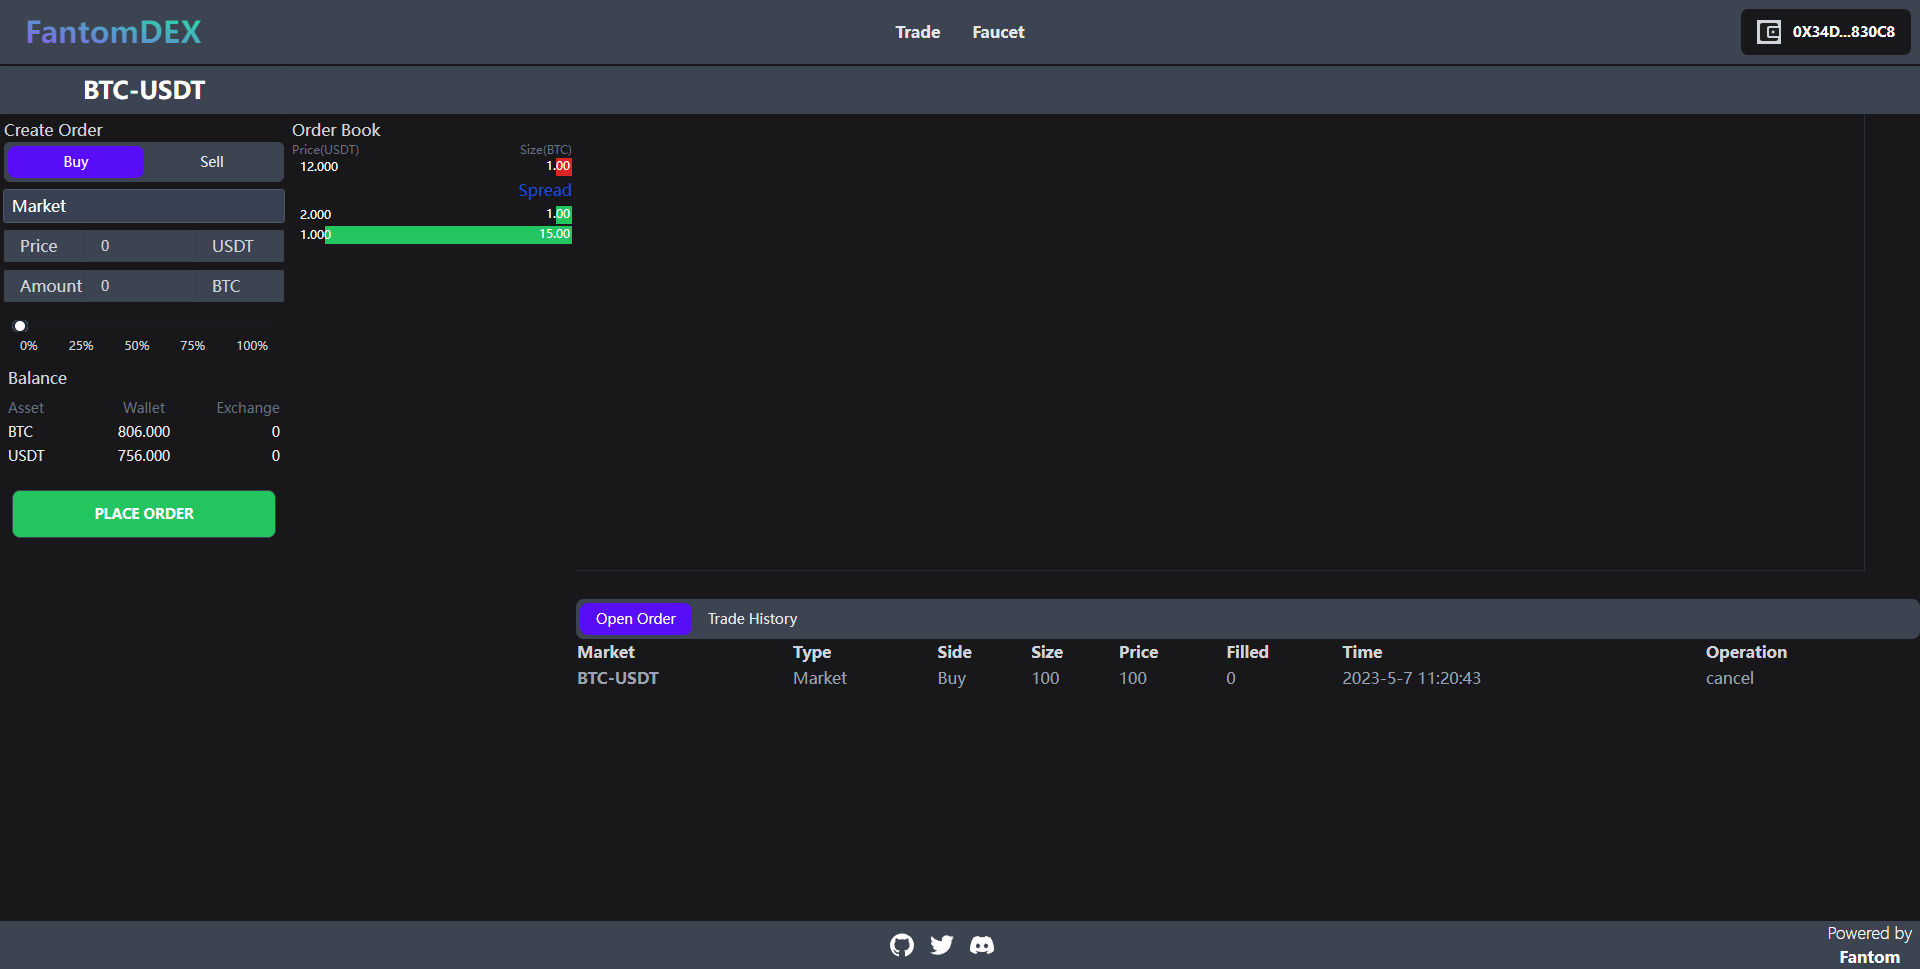
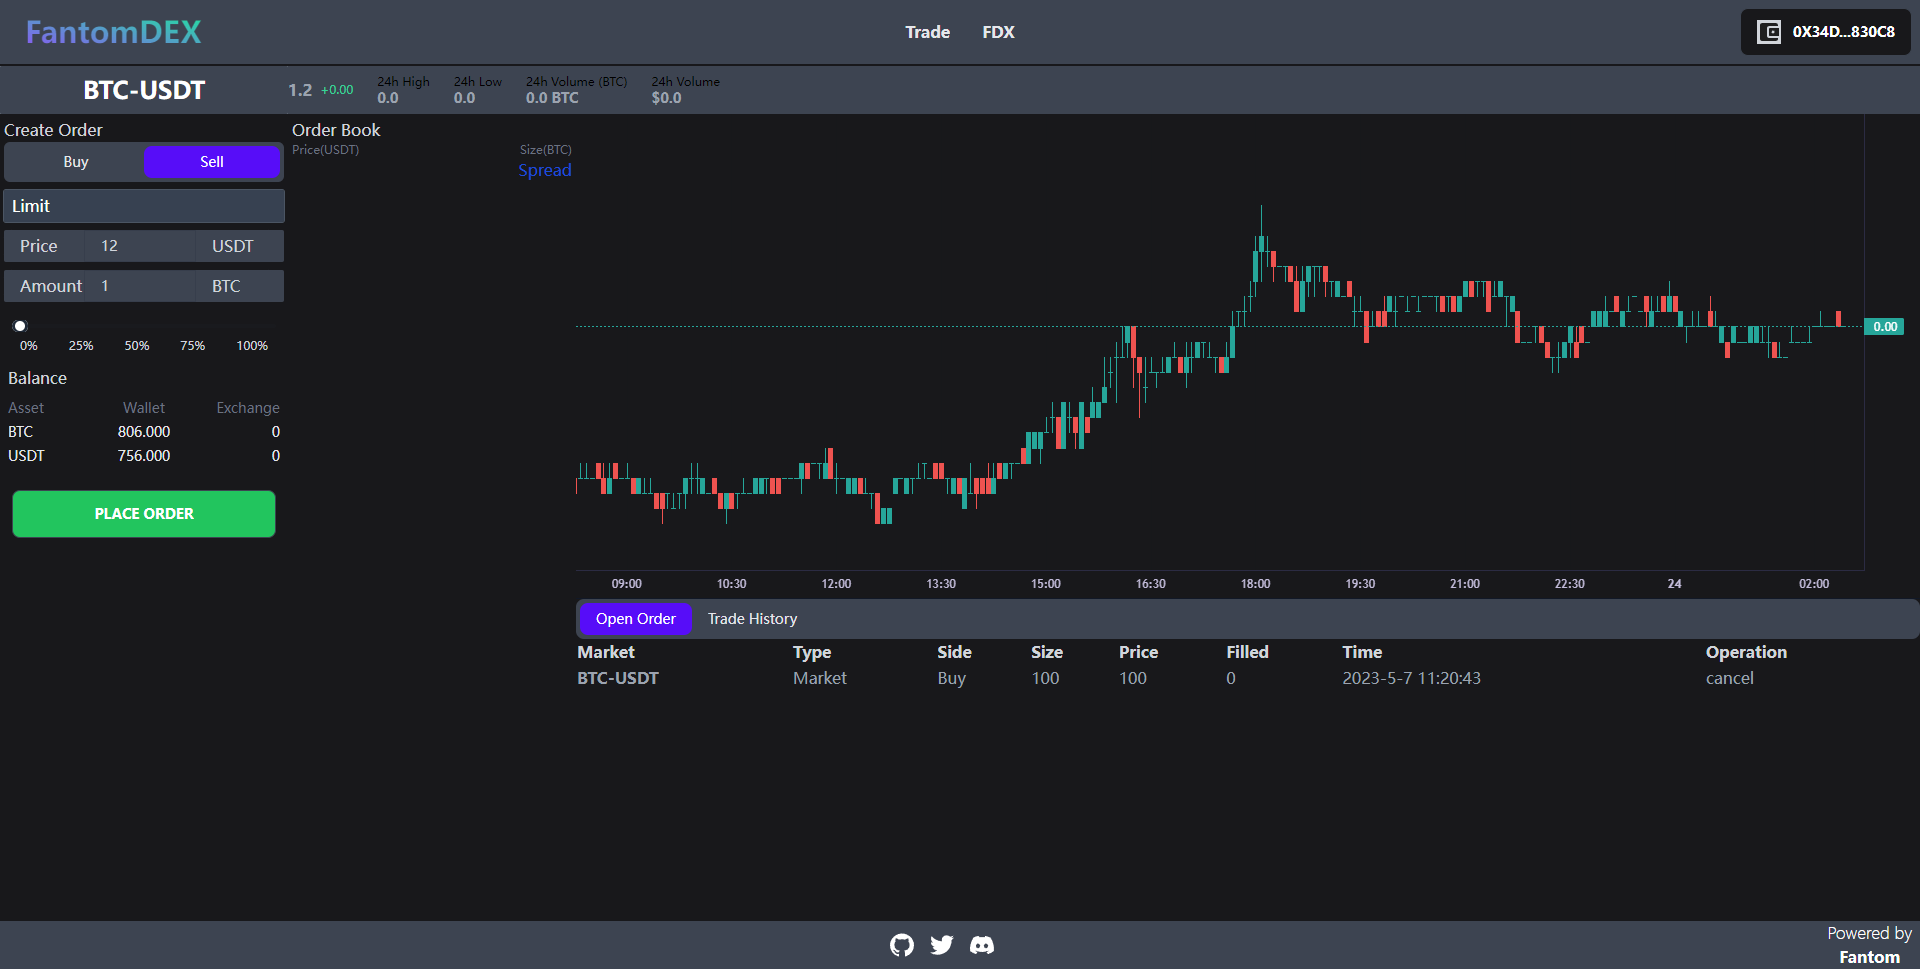
update

diff --git a/src/components/TradeTab.vue b/src/components/TradeTab.vue
@@ -18,15 +18,15 @@
         </tr>
       </thead>
       <tbody class="text-gray-400">
-        <tr v-for="(item, index) in trades" :key="index" class="">
-          <th class="text-left">{{ item.Market }}</th>
+        <tr v-for="(item, index) in orders" :key="index" class="">
+          <th class="text-left">{{ store.getters.market }}</th>
           <td>{{ item.Type }}</td>
-          <td>{{ item.Side }}</td>
-          <td>{{ item.Size }}</td>
-          <td>{{ item.Price }}</td>
-          <td>{{ item.Filled }}</td>
-          <td>{{ "2023-5-7 11:20:43" }}</td>
-          <td>cancel</td>
+          <td class="capitalize">{{ item.side }}</td>
+          <td>{{ item.quantity }}</td>
+          <td>{{ item.price }}</td>
+          <td>{{ 0 }}</td>
+          <td>{{ item.timestamp }}</td>
+          <td class=" "><button class="btn btn-xs">Cancel</button></td>
         </tr>
       </tbody>
     </table>
@@ -61,7 +61,13 @@
   </div>
 </template>
 <script setup>
-import { ref } from "vue"
+import { ref, onMounted, onUnmounted } from "vue"
+import { openOrders } from "../api"
+import { useStore } from "vuex"
+
+const store = useStore()
+const orders = ref([])
+
 const tab = ref(1)
 const onTab = (val) => {
   tab.value = val
@@ -76,6 +82,26 @@ const trades = [
     Filled: "0",
   },
 ]
+
+const timer = ref()
+onMounted(() => {
+  timer.value = setInterval(async () => {
+    try {
+      let orderList = await openOrders({ address: store.getters.account, marketId: store.getters.market })
+      console.log("open orders", orderList)
+      orders.value = orderList
+    } catch (error) {}
+  }, 1500)
+})
+
+onUnmounted(() => {
+  clearInterval(timer.value)
+  timer.value = ""
+})
 </script>
 
-<style scoped></style>
+<style scoped>
+.btn {
+  min-height: 1rem;
+}
+</style>

diff --git a/src/components/MarketInfo.vue b/src/components/MarketInfo.vue
@@ -1,0 +1,29 @@
+<template>
+  <div class="mt-4 flex items-center md:mt-0">
+    <div class="mr-4 flex flex-col items-start gap-y-2 border-r border-gray-text pr-4 md:mr-6 md:flex-row md:items-center md:gap-y-0 md:border-0 md:pr-0">
+      <p class="font-bold text-gray-400">1.2</p>
+      <p class="text-xs md:ml-2 text-success">+0.00</p>
+    </div>
+    <div class="mr-4 flex flex-col items-start gap-y-2 text-right md:mr-6 md:gap-y-0">
+      <p class="text-xs text-black">24h High</p>
+      <p class="text-xs font-bold md:text-[14px] text-gray-400">0.0</p>
+    </div>
+    <div class="mr-4 flex flex-col items-start gap-y-2 text-right md:mr-6 md:gap-y-0">
+      <p class="text-xs text-black">24h Low</p>
+      <p class="text-xs font-bold md:text-[14px] text-gray-400">0.0</p>
+    </div>
+    <div class="mr-0 flex flex-col items-start gap-y-2 text-right md:mr-6 md:gap-y-0">
+      <p class="text-xs text-black">24h Volume ({{ store.getters.baseToken }})</p>
+      <p class="text-xs font-bold md:text-[14px] text-gray-400">0.0 {{ store.getters.baseToken }}</p>
+    </div>
+    <div class="mr-0 flex flex-col items-start gap-y-2 text-right md:mr-6 md:gap-y-0">
+      <p class="text-xs text-black">24h Volume</p>
+      <p class="text-xs font-bold md:text-[14px] text-gray-400">$0.0</p>
+    </div>
+  </div>
+</template>
+<script setup>
+import { useStore } from "vuex"
+const store = useStore()
+</script>
+<style></style>

diff --git a/src/components/MarketSelect.vue b/src/components/MarketSelect.vue
@@ -1,7 +1,10 @@
 <template>
   <div class="dropdown w-1/5 2xl:w-[15%] bg-gray-500">
-    <label tabindex="0" class="btn w-full rounded-sm text-2xl">{{ store.getters.market }}</label>
-    <ul tabindex="0" class="dropdown-content menu shadow bg-base-100 rounded-sm w-full">
+    <label tabindex="0" class="btn w-full rounded-sm text-2xl flex flex-row space-x-5">
+      <img class="h-full py-1.5" :src="icon[store.getters.baseToken]" alt="" />
+      <span class="text-right">{{ store.getters.market }}</span></label
+    >
+    <ul tabindex="0" class="dropdown-content menu shadow bg-base-100 rounded-sm w-full font-bold">
       <li>
         <a class="text-center w-full flex flex-row justify-center" @click="handleClick('BTC-USDT')">BTC-USDT</a>
       </li>
@@ -12,6 +15,7 @@
   </div>
 </template>
 <script setup>
+import icon from "../config/icon/token"
 import { useStore } from "vuex"
 const store = useStore()
 

diff --git a/src/components/Orderbook.vue b/src/components/Orderbook.vue
@@ -1,6 +1,6 @@
 <template>
   <div class="tabs text-gray-300 md:w-1/5 2xl:w-[15%] flex flex-col justify-start p-1">
-    <span class="w-full">Order Book</span>
+    <span class="w-full">Orderbook</span>
     <div class="w-full justify-between flex text-xs text-gray-500">
       <span>Price({{ store.state.quoteToken }})</span>
       <span>Size({{ store.state.baseToken }})</span>
@@ -39,13 +39,12 @@ onMounted(() => {
       let ret = await orderbook({
         marketID: store.getters.market,
       })
-
       let bids = ret[1]
       let asks = ret[0]
       let totalVolume = 0
 
-      bids.map((item) => (totalVolume += Number(item.quantity)))
-      asks.map((item) => (totalVolume += Number(item.quantity)))
+      bids?.map((item) => (totalVolume += Number(item.quantity)))
+      asks?.map((item) => (totalVolume += Number(item.quantity)))
 
       bidOrders_.value = bids
       askOrders_.value = asks

diff --git a/src/components/TradeMenu.vue b/src/components/TradeMenu.vue
@@ -71,6 +71,8 @@
       <button v-if="store.getters.quoteAllowance == 0" class="w-full btn bg-green-500" :class="{ 'blur-sm': store.getters.account == '' }" @click="onUnlockQuoteToken">Unlock {{ store.getters.quoteToken }}</button>
       <button v-else class="w-full btn bg-green-500" :class="{ 'blur-sm': store.getters.account == '' }" @click="onPlaceOrder">Place Order</button>
     </div>
+
+    <OrderSummary></OrderSummary>
   </div>
 </template>
 
@@ -78,6 +80,7 @@
 import { ethers } from "ethers"
 import { ref, onMounted, computed, watch } from "vue"
 import OrderType from "./OrderTypeSelect.vue"
+import OrderSummary from "./OrderSummary.vue"
 import Asset from "./Asset.vue"
 import { placeOrder, confirmOrder, confirmExecute } from "../api"
 import store from "../store"

diff --git a/src/components/OrderSummary.vue b/src/components/OrderSummary.vue
@@ -1,0 +1,21 @@
+<template>
+  <div class="w-full mt-5 p-1 text-sm">
+    <div class="flex flex-row justify-between">
+      <span class="text-slate-500">Subtotal</span>
+      <span>1500.00 {{ store.getters.quoteToken }}</span>
+    </div>
+    <div class="flex flex-row justify-between">
+      <span class="text-slate-500">Fee</span>
+      <span>1500.00 {{ store.getters.quoteToken }}</span>
+    </div>
+    <div class="flex flex-row justify-between">
+      <span class="text-slate-500">Total</span>
+      <span>1500.00 {{ store.getters.quoteToken }}</span>
+    </div>
+  </div>
+</template>
+<script setup>
+import { useStore } from "vuex"
+const store = useStore()
+</script>
+<style></style>

diff --git a/src/components/TradingViewSimple.vue b/src/components/TradingViewSimple.vue
@@ -106,6 +106,7 @@ export default {
 
       kline({ symbol: `${base}${quote}`, interval: this.span })
         .then((res) => {
+          console.log("1111111111111111", res)
           let data = JSON.parse(res)
           const cdata = data.map((d) => {
             return { time: d[0] / 1000, open: d[1], high: d[2], low: d[3], close: d[4] }

diff --git a/src/components/TopBar.vue b/src/components/TopBar.vue
@@ -1,9 +1,11 @@
 <template>
   <div class="h-15 bg-neutral flex items-center w-full">
     <MarketSelect></MarketSelect>
+    <MarketInfo></MarketInfo>
   </div>
 </template>
 <script setup>
 import MarketSelect from "./MarketSelect.vue"
+import MarketInfo from "./MarketInfo.vue"
 </script>
 <style></style>

diff --git a/src/config/icon/token.js b/src/config/icon/token.js
@@ -1,0 +1,7 @@
+const config = {
+  BTC: "https://assets.coingecko.com/coins/images/1/small/bitcoin.png?1547033579",
+  USDT: "0xcFE311E1721797ee6BD91D841a1EF3CF440d81Ca",
+  FTM: "https://assets.coingecko.com/coins/images/4001/large/Fantom.png",
+}
+
+export default config

diff --git a/src/components/Header.vue b/src/components/Header.vue
@@ -41,7 +41,7 @@
             <li><a>Submenu 2</a></li>
           </ul>
         </li> -->
-        <li><a>Faucet</a></li>
+        <li><a>FDX</a></li>
       </ul>
     </div>
     <div class="navbar-end">

diff --git a/src/api/index.js b/src/api/index.js
@@ -55,3 +55,11 @@ export function confirmExecute(data) {
     data,
   })
 }
+
+export function openOrders(data) {
+  return request({
+    url: "/open_orders",
+    method: "post",
+    data,
+  })
+}

diff --git a/src/App.vue b/src/App.vue
@@ -1,3 +1,8 @@
 <template>
   <router-view />
 </template>
+<style>
+body {
+  font-family: Arial, Helvetica, sans-serif;
+}
+</style>
